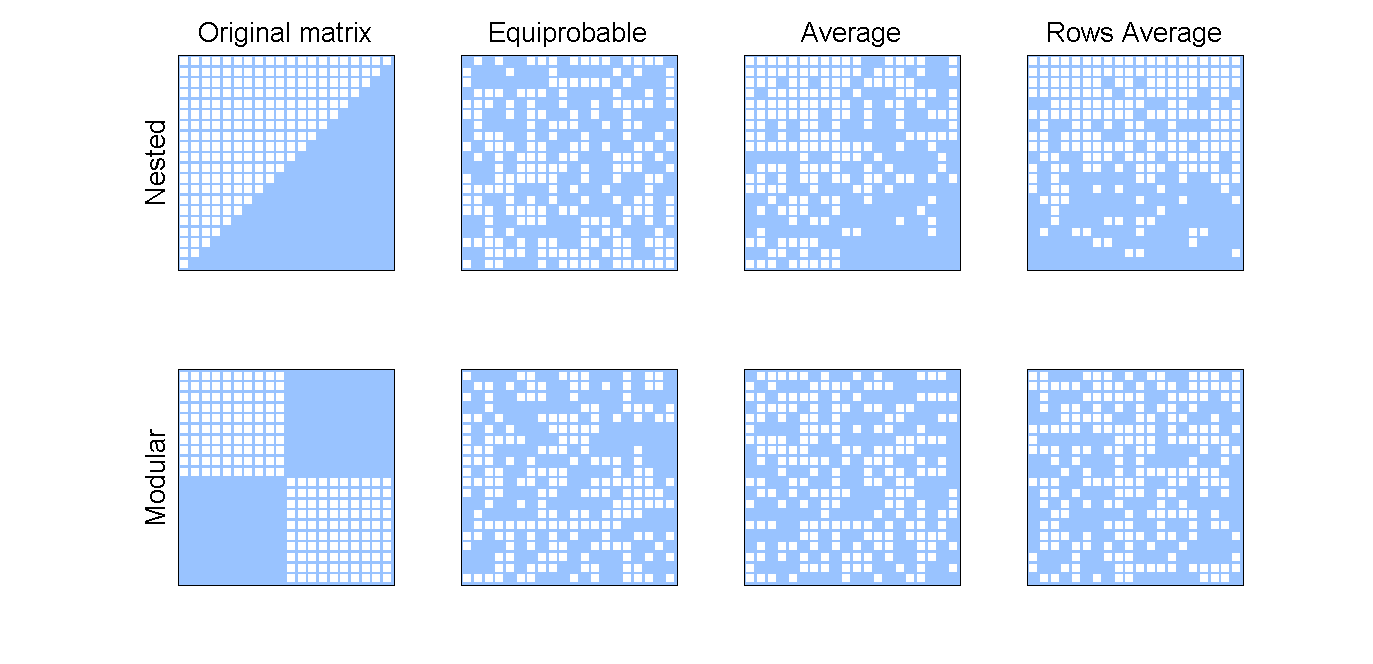
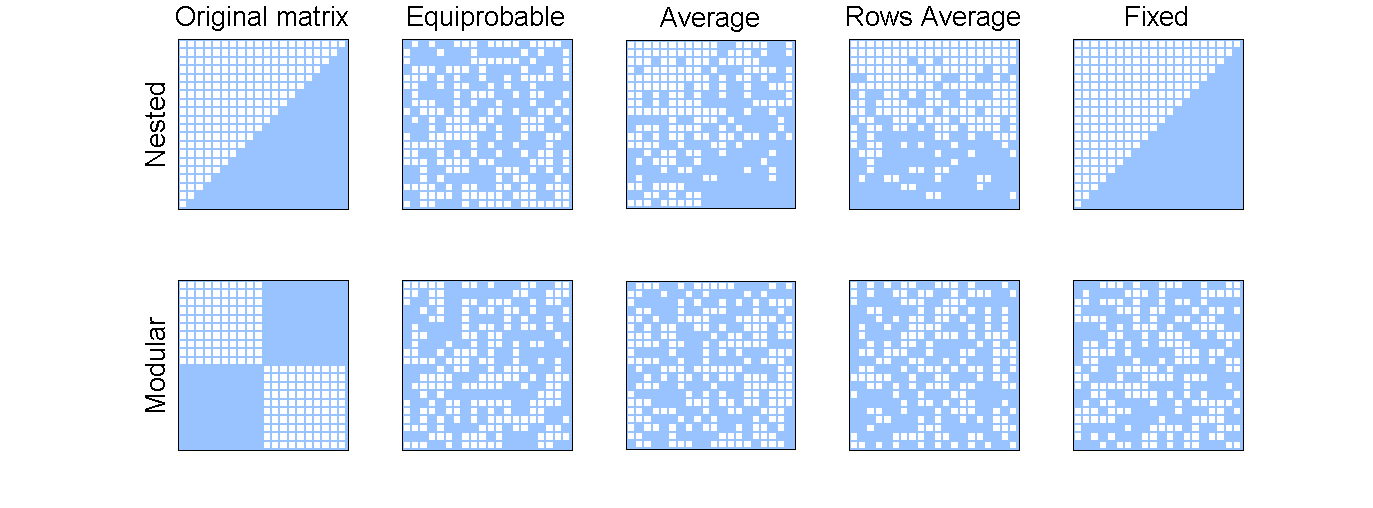
statistics pages updates

Changed region(s): [[0.0918, 0.0, 0.9177, 0.4134], [0.0918, 0.5315, 0.9177, 0.8858]]

diff --git a/_posts/2015-02-17-null_models.html b/_posts/2015-02-17-null_models.html
@@ -8,7 +8,7 @@ order: 0
 <!--
 This HTML was auto-generated from MATLAB code.
 To make changes, update the MATLAB code and republish this document.
---><div class="content"><!--introduction--><!--/introduction--><h2>Contents</h2><div><ul><li><a href="#1">Description</a></li><li><a href="#2">Example</a></li></ul></div><h2>Description<a name="1"></a></h2><p>In statistics, it a common task to analyze the statistical significance of a value in which we have interest. Most of the time this task is done by comparing the value in question with a null model. In our case, to analyze the statistical significance of the values of modularity and nestedness giving by a bipartite network we need to compare them with an ensamble of random networks (our null model). There exist many ways of creating bipartite Random Networks, and BiMat implement some of the most common ones:</p><div><ul><li><b>Equiprobable:</b></li><li><b>Average:</b></li><li><b>Rows Average:</b></li><li><b>Column Average:</b></li><li><b>Fixed Totals:</b></li></ul></div><h2>Example<a name="2"></a></h2><p>The next example shows how to create null model:</p><pre class="codeinput"><span class="comment">%Original matrices that will be used as test</span>
+--><div class="content"><!--introduction--><!--/introduction--><h2>Contents</h2><div><ul><li><a href="#1">Description</a></li><li><a href="#2">Example</a></li></ul></div><h2>Description<a name="1"></a></h2><p>In statistics, it a common task to analyze the statistical significance of a value in which we have interest. Most of the time this task is done by comparing the value in question with a null model. In our case, to analyze the statistical significance of the values of modularity and nestedness giving by a bipartite network we need to compare them with an ensamble of random networks (our null model).</p><p><tt>BiMat</tt> proposes five null models to test the significance of measured nestedness and modularity. These null models generate random networks through a Bernoulli process, where the probability of interactions are determined following different rules.  Define $k_i$ as the degree of a node $i$ of the column class and $d_j$ as the degree of a node $j$ of the row class. Then, the probability that two nodes (of distinct classes) interact, $P_{ij}$ is:</p><div><ul><li><tt>NullModels.EQUIPROBABLE</tt>: $P_{ij} = E/(mn)$ -- the connectance of the network is respected, but not the number of interactions in which each node is involved.</li><li><tt>NullModels.AVERAGE</tt>: $P_{ij} = (k_{i}/n + d_{j}/m)/2$ -- the connectance, and the expected number of interactions in which each node is involved, are respected</li><li><tt>NullModels.COLUMNS</tt>: $P_{ij} = k_{i}/n$ -- the connectance, and the expected number of interactions of row nodes, are respected</li><li><tt>NullModels.ROWS</tt>: $P_{ij} = d_{j}/m$ -- the connectance, and the expected number of interactions of column nodes, are respected</li></ul></div><p>An additional null model that can not be thought in terms of cell probabilities and is included in <tt>BiMat</tt> is:</p><div><ul><li><tt>NullModels.FIXED</tt>: Under this null model the exact sum of rows and columns is respected. A swap algorithm is used in order to get the random matrices.</li></ul></div><p>By default, <tt>BiMat</tt> generate networks that can have disconnected nodes (i.e. nodes with no edges to any other nodes in the network). However the user can impose a constraint that all nodes must be connected to at least one other node (if possible) in the null model generating process.</p><h2>Example<a name="2"></a></h2><p>The next example shows how to create a null model:</p><pre class="codeinput"><span class="comment">%Original matrices that will be used as test</span>
 nested_matrix = MatrixFunctions.NESTED_MATRIX(20);
 modular_matrix = MatrixFunctions.BLOCK_MATRIX(2,10);
 
@@ -19,10 +19,12 @@ RandStream.setGlobalStream(RandStream(<span class="string">'mt19937ar'</span>,<s
 nested_equiprobable_matrix = NullModels.EQUIPROBABLE(nested_matrix);
 nested_average_matrix = NullModels.AVERAGE(nested_matrix);
 nested_row_average_matrix = NullModels.AVERAGE_ROWS(nested_matrix);
+nested_fixed = NullModels.FIXED(nested_matrix);
 
 modular_equiprobable_matrix = NullModels.EQUIPROBABLE(modular_matrix);
 modular_average_matrix = NullModels.AVERAGE(modular_matrix);
 modular_row_average_matrix = NullModels.AVERAGE_ROWS(modular_matrix);
+modular_fixed = NullModels.FIXED(modular_matrix);
 
 
 <span class="comment">%Some plot format for all plots</span>
@@ -34,43 +36,37 @@ font_size = 20;
 
 <span class="comment">%Plotting</span>
 figure(1);
-set(gcf,<span class="string">'position'</span>, [22,52,1373,664]);
+set(gcf,<span class="string">'position'</span>, [22,52,1373,508]);
 
-subplot(2,4,1);
+subplot(2,5,1);
 ylabel(<span class="string">'Nested'</span>, <span class="string">'FontSize'</span>, font_size);
 title(<span class="string">'Original matrix'</span>, <span class="string">'FontSize'</span>, font_size);
 PlotWebs.PLOT_MATRIX(nested_matrix, plot_format);
-subplot(2,4,2);
+subplot(2,5,2);
 title(<span class="string">'Equiprobable'</span>, <span class="string">'FontSize'</span>, font_size);
 PlotWebs.PLOT_MATRIX(nested_equiprobable_matrix, plot_format);
-subplot(2,4,3);
+subplot(2,5,3);
 title(<span class="string">'Average'</span>, <span class="string">'FontSize'</span>, font_size);
 PlotWebs.PLOT_MATRIX(nested_average_matrix, plot_format);
-subplot(2,4,4);
+subplot(2,5,4);
 title(<span class="string">'Rows Average'</span>, <span class="string">'FontSize'</span>, font_size);
 PlotWebs.PLOT_MATRIX(nested_row_average_matrix, plot_format);
+subplot(2,5,5);
+title(<span class="string">'Fixed'</span>, <span class="string">'FontSize'</span>, font_size);
+PlotWebs.PLOT_MATRIX(nested_fixed, plot_format);
 
-subplot(2,4,5);
+subplot(2,5,6);
 ylabel(<span class="string">'Modular'</span>, <span class="string">'FontSize'</span>, font_size);
 PlotWebs.PLOT_MATRIX(modular_matrix, plot_format);
-subplot(2,4,6);
+subplot(2,5,7);
 PlotWebs.PLOT_MATRIX(modular_equiprobable_matrix, plot_format);
-subplot(2,4,7);
+subplot(2,5,8);
 PlotWebs.PLOT_MATRIX(modular_average_matrix, plot_format);
-subplot(2,4,8);
+subplot(2,5,9);
 PlotWebs.PLOT_MATRIX(modular_row_average_matrix, plot_format);
-
-</pre>
-
-{% highlight matlab  %}
-%By creating an instance and then calculating nestedness
-nes = NestednessNODF(matrix);
-nes.Detect();
-%Or by calling a static method:
-nes2 = Nestedness.NODF(matrix);
-{% endhighlight %}
-
-<img vspace="5" hspace="5" src="../figures/null_models_01.png" alt=""> <p class="footer"><br><a href="http://www.mathworks.com/products/matlab/">Published with MATLAB&reg; R2014a</a><br></p></div><!--
+subplot(2,5,10);
+PlotWebs.PLOT_MATRIX(modular_fixed, plot_format);
+</pre><img vspace="5" hspace="5" src="../figures/null_models_01.png" alt=""> <p>As it is possible to see (at least visually) the chosen null model will have a bigger effect in nested matrices than modular ones.</p><p class="footer"><br><a href="http://www.mathworks.com/products/matlab/">Published with MATLAB&reg; R2014a</a><br></p></div><!--
 ##### SOURCE BEGIN #####
 %% Null Models
 
@@ -80,15 +76,33 @@ nes2 = Nestedness.NODF(matrix);
 % value in question with a null model. In our case, to analyze the statistical
 % significance of the values of
 % modularity and nestedness giving by a bipartite network we need to
-% compare them with an ensamble of random networks (our null model). There
-% exist many ways of creating bipartite Random Networks, and BiMat
-% implement some of the most common ones:
+% compare them with an ensamble of random networks (our null model). 
 %
-% * *Equiprobable:*
-% * *Average:*
-% * *Rows Average:*
-% * *Column Average:*
-% * *Fixed Totals:*
+% |BiMat| proposes five null models to test the
+% significance of measured nestedness and modularity. These null models generate random networks 
+% through a Bernoulli
+% process, where the probability of interactions are determined following
+% different rules.  Define $k_i$ as the degree of a node $i$ of the column class and $d_j$ as the degree of a node $j$ of the row class.
+% Then, the probability
+% that two nodes (of distinct classes) interact, $P_{ij}$ is:
+%
+% * |NullModels.EQUIPROBABLE|: $P_{ij} = E/(mn)$ REPLACE_WITH_DASH_DASH the connectance of the network is respected, but not the number of interactions in which each node is involved. 
+% * |NullModels.AVERAGE|: $P_{ij} = (k_{i}/n + d_{j}/m)/2$ REPLACE_WITH_DASH_DASH the connectance, and the expected number of interactions in which each node is involved, are respected
+% * |NullModels.COLUMNS|: $P_{ij} = k_{i}/n$ REPLACE_WITH_DASH_DASH the connectance, and the expected number of interactions of row nodes, are respected
+% * |NullModels.ROWS|: $P_{ij} = d_{j}/m$ REPLACE_WITH_DASH_DASH the connectance, and the expected number of interactions of column nodes, are respected
+% 
+% An additional null model that can not be thought in terms of cell
+% probabilities and is included in |BiMat| is:
+%
+% * |NullModels.FIXED|: Under this null model the exact sum of rows and
+% columns is respected. A swap algorithm is used in order to get the random
+% matrices.
+%
+% By default, |BiMat| generate networks that can have disconnected nodes
+% (i.e. nodes with no edges to any other nodes in the network).
+% However the user can impose a constraint that all nodes must be
+% connected to at least one other node (if possible) in the null model
+% generating process.  
 
 %% Example
 % The next example shows how to create null model:
@@ -104,10 +118,12 @@ RandStream.setGlobalStream(RandStream('mt19937ar','seed',100));
 nested_equiprobable_matrix = NullModels.EQUIPROBABLE(nested_matrix);
 nested_average_matrix = NullModels.AVERAGE(nested_matrix);
 nested_row_average_matrix = NullModels.AVERAGE_ROWS(nested_matrix);
+nested_fixed = NullModels.FIXED(nested_matrix);
 
 modular_equiprobable_matrix = NullModels.EQUIPROBABLE(modular_matrix);
 modular_average_matrix = NullModels.AVERAGE(modular_matrix);
 modular_row_average_matrix = NullModels.AVERAGE_ROWS(modular_matrix);
+modular_fixed = NullModels.FIXED(modular_matrix);
 
 
 %Some plot format for all plots
@@ -119,30 +135,39 @@ font_size = 20;
 
 %Plotting
 figure(1);
-set(gcf,'position', [22,52,1373,664]);
+set(gcf,'position', [22,52,1373,508]);
 
-subplot(2,4,1);
+subplot(2,5,1);
 ylabel('Nested', 'FontSize', font_size);
 title('Original matrix', 'FontSize', font_size);
 PlotWebs.PLOT_MATRIX(nested_matrix, plot_format);
-subplot(2,4,2);
+subplot(2,5,2);
 title('Equiprobable', 'FontSize', font_size);
 PlotWebs.PLOT_MATRIX(nested_equiprobable_matrix, plot_format);
-subplot(2,4,3);
+subplot(2,5,3);
 title('Average', 'FontSize', font_size);
 PlotWebs.PLOT_MATRIX(nested_average_matrix, plot_format);
-subplot(2,4,4);
+subplot(2,5,4);
 title('Rows Average', 'FontSize', font_size);
 PlotWebs.PLOT_MATRIX(nested_row_average_matrix, plot_format);
+subplot(2,5,5);
+title('Fixed', 'FontSize', font_size);
+PlotWebs.PLOT_MATRIX(nested_fixed, plot_format);
 
-subplot(2,4,5);
+subplot(2,5,6);
 ylabel('Modular', 'FontSize', font_size);
 PlotWebs.PLOT_MATRIX(modular_matrix, plot_format);
-subplot(2,4,6);
+subplot(2,5,7);
 PlotWebs.PLOT_MATRIX(modular_equiprobable_matrix, plot_format);
-subplot(2,4,7);
+subplot(2,5,8);
 PlotWebs.PLOT_MATRIX(modular_average_matrix, plot_format);
-subplot(2,4,8);
+subplot(2,5,9);
 PlotWebs.PLOT_MATRIX(modular_row_average_matrix, plot_format);
+subplot(2,5,10);
+PlotWebs.PLOT_MATRIX(modular_fixed, plot_format);
+
+%%
+% As it is possible to see (at least visually) the chosen null model will
+% have a bigger effect in nested matrices than modular ones.
 ##### SOURCE END #####
 -->

diff --git a/_posts/2015-02-17-nestedness.html b/_posts/2015-02-17-nestedness.html
@@ -10,15 +10,33 @@ This HTML was auto-generated from MATLAB code.
 To make changes, update the MATLAB code and republish this document.
 --><div class="content"><!--introduction--><!--/introduction--><h2>Contents</h2><div><ul><li><a href="#1">Description</a></li><li><a href="#2">Example 1: Calculating Nestedness</a></li><li><a href="#5">Example 2: Accesing detailed results</a></li><li><a href="#7">Example 3: Nested vs Antinested pattern</a></li></ul></div><h2>Description<a name="1"></a></h2><p>Nestedness describes the extent to which interactions form ordered subsets of each other. There are several indices for quantifying nestedness <tt>bimat</tt> implements two of the most commonly used methods, namely, NTC (Nestedness Temperature Calculator) (see <a href="http://link.springer.com/article/10.1007%2FBF00317508">Atmar et al 1993</a>) and NODF (for Nestedness metric based on Overlap and Decreasing Fill) (see <a href="http://onlinelibrary.wiley.com/doi/10.1111/j.0030-1299.2008.16644.x/abstract">Almeida-Neto et al 2008</a>).</p><p>
 
-<h3>NODF</h3></p>
+<h4>NestednesNODF</h4></p>
 <p>The NODF measure normalizes for matrix size, and thus allows matrices of different sizes to be compared. The nestedness range is $0 \le NODF \le 1$, where 0 indicates an homogeneous matrix having ones in every position and 1 corresponds to a perfectly nested structure. NODF is based on two properties: decreasing fill and paired overlap. NODF measures nestedness across rows by assigning a value $M_{ij}^{\text{row}}$ to each pair $i$, $j$ of rows in the interaction matrix:</p>
 \begin{equation}
 M_{ij}^{\text{row}} = \begin{cases}
 			0 & \text{if $k_i \le k_j$}\\
-         n_{ij}/\min(k_i,k_j) & \text{otherwise}
+         n_{ij}/\min(k_i,k_j) & \text{otherwise,}
 		\end{cases}
 \label{eq.Mrows}
 \end{equation}
+<p>
+where $k_i$ is the number of ones in row $i$, $k_j$ is the number of ones in row $j$, and $n_{ij}$ is the number of shared interactions between rows $i$ and $j$ (so-called paired overlap). Notice that positive contributions to the NODF require pairs of columns satisfying the decreasing fill property, that is, when $k_i &gt; k_j$. A similar term  $M_{ij}^{\text{col}}$  is used to compute column  contributions.  The total nestedness is the sum of columns and row contributions: 
+</p>
+\begin{equation}
+N_{NODF} = \frac{\sum_{ij} M_{ij}^{\text{row}} + \sum_{ij} M_{ij}^{\text{col}}}
+		{ m(m-1) /2 + n(n-1)/2}.
+\end{equation}
+<tt>MATLAB</tt> vectorization capabilities allows for very efficient calculation of $M_{ij}^{\text{row}}$ (and its column version):
+\begin{equation}
+M_{ij}^{\text{row}} = \frac{(\mathbf{r}_i \cdot \mathbf{r}_j) \left(1-\delta(k_i,k_j)\right)} {\min(k_i,k_j)},
+\end{equation}	
+
+where $\mathbf{r_i}$ is a vector that represents the row $i$ of the adjacency matrix, and
+$\delta(k_i,k_j)=1$ if and only if $k_i=k_j$. 
+By using this notation, $M_{ij}^{\text{row}}$ can be expressed in terms of  matrix multiplications that exploit the
+implicit parallelism provided by Matlab (see code for details).
+
+<h4>Temperature Calculator (NestednessNTC)</h4><p>A `temperature', $T$, of the interaction matrix is estimated by resorting rows and columns such that the largest quantity of interactions falls above the isocline (a curve that will divide the interaction from the non-interaction zone of a perfectly nested matrix of the same size and connectance). In doing so, the value of $T$ quantifies the extent to which interactions only take place in the upper left ($T\approx0$), or are equally distributed between the upper left and the lower right ($T\approx100$). Perfectly nested interaction matrices can be resorted to lie exclusively in the upper left portion and hence have a temperature of 0. The value of temperature depends on the size, connectance and structure of the network. Because the temperature value quantifies departures from perfect nestedness, we define the nestedness, $N_{NTC}$, of a matrix to range from 0 to 1, $N_{NTC}=(100-T)/100$, such that $N_{NTC}=1$ when $T=0$ (in the case of perfect nestedness) and $N_{NTC}=0$ when $T=100$ (in the case when interactions form a ``checkerboard'' when visualized in matrix format).</p><h2>Example 1: Calculating Nestedness<a name="2"></a></h2><p>The next example shows how to detect nestedness using the default algorithm:</p>
 
 <pre class="codeinput">matrix = MatrixFunctions.NESTED_MATRIX(20);
 bp = Bipartite(matrix);
@@ -67,7 +85,10 @@ ans =
 
      1
 
-</pre><h2>Example 3: Nested vs Antinested pattern<a name="7"></a></h2><p>In this example we will calculate the nestedness of three different degrees of nestedness:</p><pre class="codeinput"><span class="comment">%Creating the matrices</span>
+</pre><h2>Example 3: Degrees of nestedness<a name="7"></a></h2>
+<p>In this example we will calculate the nestedness of three different degrees of nestedness: (i) and anti nested pattern (which is a perfect modular pattern),
+(ii) a pattern with some degree of nestedness, and (iii) a perfect nested pattern:</p>
+<pre class="codeinput"><span class="comment">%Creating the matrices</span>
 matrix_nested = MatrixFunctions.NESTED_MATRIX(20); <span class="comment">%perfect nested</span>
 matrix_modular = MatrixFunctions.BLOCK_MATRIX(2,10); <span class="comment">%perfect anti nested</span>
 matrix_middle = MatrixFunctions.MIX_MATRICES(matrix_nested,matrix_modular); <span class="comment">%a combination</span>
@@ -116,26 +137,5 @@ subplot(2,3,6);
 PlotWebs.PLOT_NESTED_MATRIX(matrix_nested, plot_format);
 xlabel([<span class="string">'$N_{NTC} = '</span>, num2str(ntc_nested.N),<span class="string">'$, $N_{NODF} = '</span>,num2str(nodf_nested.N),<span class="string">'$'</span>],<span class="keyword">...</span>
     <span class="string">'FontSize'</span>,14, <span class="string">'interpreter'</span>,<span class="string">'latex'</span>);
-</pre><pre class="codeoutput">Nestedness NTC:
-	NTC (Nestedness value):     	              1.0000
-	T (Temperature value):      	              0.0000
-Nestedness NTC:
-	NTC (Nestedness value):     	              0.0220
-	T (Temperature value):      	             97.7991
-Nestedness NTC:
-	NTC (Nestedness value):     	              0.6050
-	T (Temperature value):      	             39.5011
-Nestedness NODF:
-	NODF (Nestedness value):    	              1.0000
-	NODF (Rows value):          	              1.0000
-	NODF (Columns value):       	              1.0000
-Nestedness NODF:
-	NODF (Nestedness value):    	              0.0000
-	NODF (Rows value):          	              0.0000
-	NODF (Columns value):       	              0.0000
-Nestedness NODF:
-	NODF (Nestedness value):    	              0.5463
-	NODF (Rows value):          	              0.5777
-	NODF (Columns value):       	              0.5149
-</pre><img vspace="5" hspace="5" src="nest_01.png" alt=""> <p class="footer"><br><a href="http://www.mathworks.com/products/matlab/">Published with MATLAB&reg; R2014a</a><br></p></div>
+</pre><img vspace="5" hspace="5" src="../figures/nest_01.png" alt=""> <p class="footer"><br><a href="http://www.mathworks.com/products/matlab/">Published with MATLAB&reg; R2014a</a><br></p></div>
 

diff --git a/_posts/2015-02-17-meta_statistics.html b/_posts/2015-02-17-meta_statistics.html
@@ -92,11 +92,11 @@ meta_stat.Print;
 meta_stat.plotter.p_value = 0.05; <span class="comment">%Default value</span>
 <span class="comment">%plot the results</span>
 figure(1);meta_stat.plotter.PlotNestednessValues();
-</pre><img vspace="5" hspace="5" src="meta_statistics_01.png" alt=""> <p>Finally, we can get a better idea of the results by plotting the nested matrices.</p><pre class="codeinput">meta_stat.plotter.back_color = [255 229 204]/255;
+</pre><img vspace="5" hspace="5" src="../figures/meta_statistics_01.png" alt=""> <p>Finally, we can get a better idea of the results by plotting the nested matrices.</p><pre class="codeinput">meta_stat.plotter.back_color = [255 229 204]/255;
 meta_stat.plotter.cell_color = [96 96 96]/255;
 meta_stat.plotter.isocline_color = [200 100 0]/255;
 figure(2); meta_stat.plotter.PlotNestedMatrices;
-</pre><img vspace="5" hspace="5" src="meta_statistics_02.png" alt=""> <p>As we can see, most of the matrices are nested (the ones with (+) on the label name. They are nested under the <tt>p_value = 0.05</tt> that we chose before using a two side test. This means that the nested matrices (+) are have a value larger than 97.5 % of their corresponding random networks. The user must know that we just repeated part of the results of a very famous paper on the field. If he has the interest, we would like to recommend him to read the original paper <a href="http://www.pnas.org/content/100/16/9383.full">Bascompte et al 2003</a>.</p><p>Finally, we must say that the user can continue the analysis for modularity. The next lines could complete the work:</p><pre class="language-matlab">meta_stat.do_community = true;
+</pre><img vspace="5" hspace="5" src="../figures/meta_statistics_02.png" alt=""> <p>As we can see, most of the matrices are nested (the ones with (+) on the label name. They are nested under the <tt>p_value = 0.05</tt> that we chose before using a two side test. This means that the nested matrices (+) are have a value larger than 97.5 % of their corresponding random networks. The user must know that we just repeated part of the results of a very famous paper on the field. If he has the interest, we would like to recommend him to read the original paper <a href="http://www.pnas.org/content/100/16/9383.full">Bascompte et al 2003</a>.</p><p>Finally, we must say that the user can continue the analysis for modularity. The next lines could complete the work:</p><pre class="language-matlab">meta_stat.do_community = true;
 meta_stat.modularity_algorithm = @AdaptiveBrim;
 meta_stat.DoMetaAnalyisis();
 figure(3); meta_stat.plotter.PlotModularValues();

diff --git a/_posts/2015-02-17-network_statistics.html b/_posts/2015-02-17-network_statistics.html
@@ -25,7 +25,7 @@ figure(1); set(gcf,<span class="string">'Position'</span>, [38,64,1290,435]);
 subplot(1,3,1); bp.plotter.PlotMatrix; title(<span class="string">'Original'</span>,<span class="string">'FontSize'</span>,font_size);
 subplot(1,3,2); bp.plotter.PlotNestedMatrix; title(<span class="string">'Nested'</span>,<span class="string">'FontSize'</span>,font_size);xlabel(<span class="string">'Zinno 2010'</span>,<span class="string">'FontSize'</span>,font_size+6);
 subplot(1,3,3); bp.plotter.PlotModularMatrix; title(<span class="string">'Modular'</span>,<span class="string">'FontSize'</span>,font_size);
-</pre><img vspace="5" hspace="5" src="network_statistics_01.png" alt=""> <p>By just looking at the last plots, we can infer that this matrix have a strong community structure pattern, while nestedness is not apparent. In order to confirm these observations, we can finally perform a nested and modular tests on this matrix (using default values):</p><pre class="codeinput">bp.statistics.TestCommunityStructure();
+</pre><img vspace="5" hspace="5" src="../figures/network_statistics_01.png" alt=""> <p>By just looking at the last plots, we can infer that this matrix have a strong community structure pattern, while nestedness is not apparent. In order to confirm these observations, we can finally perform a nested and modular tests on this matrix (using default values):</p><pre class="codeinput">bp.statistics.TestCommunityStructure();
 </pre><pre class="codeoutput">Evaluating Modularity in random matrices: 1 - 10
 Evaluating Modularity in random matrices: 11 - 20
 Evaluating Modularity in random matrices: 21 - 30
